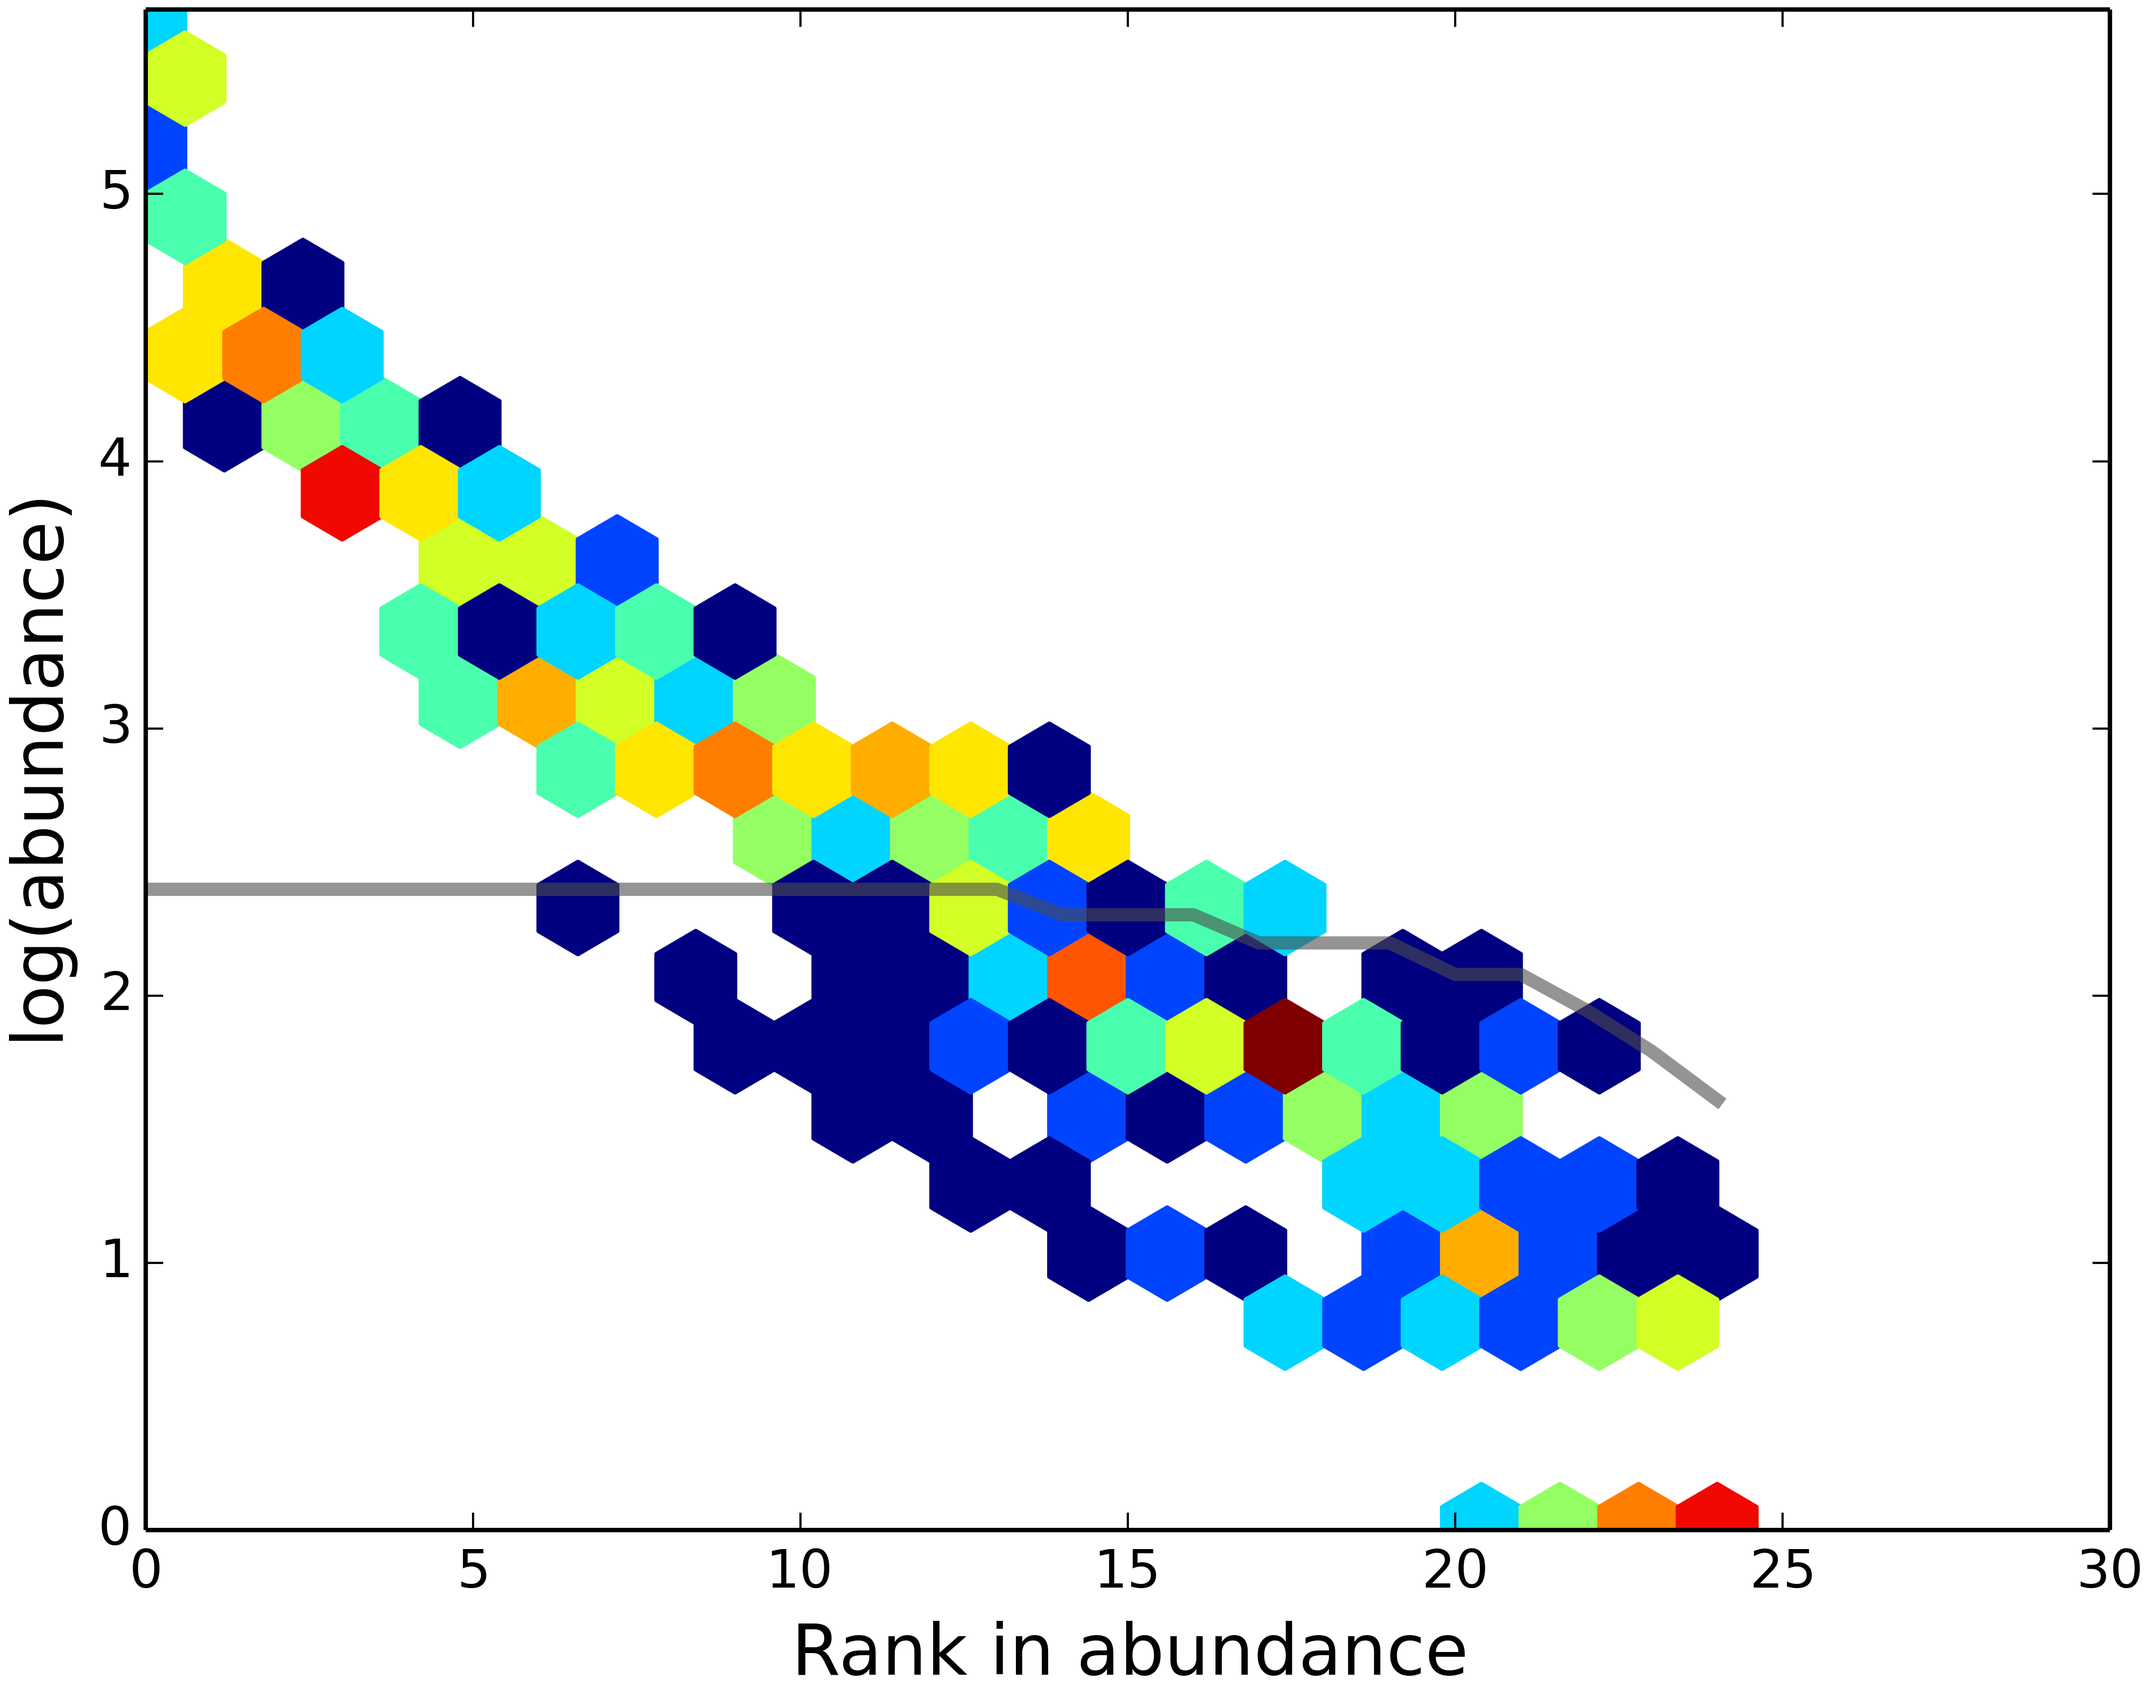
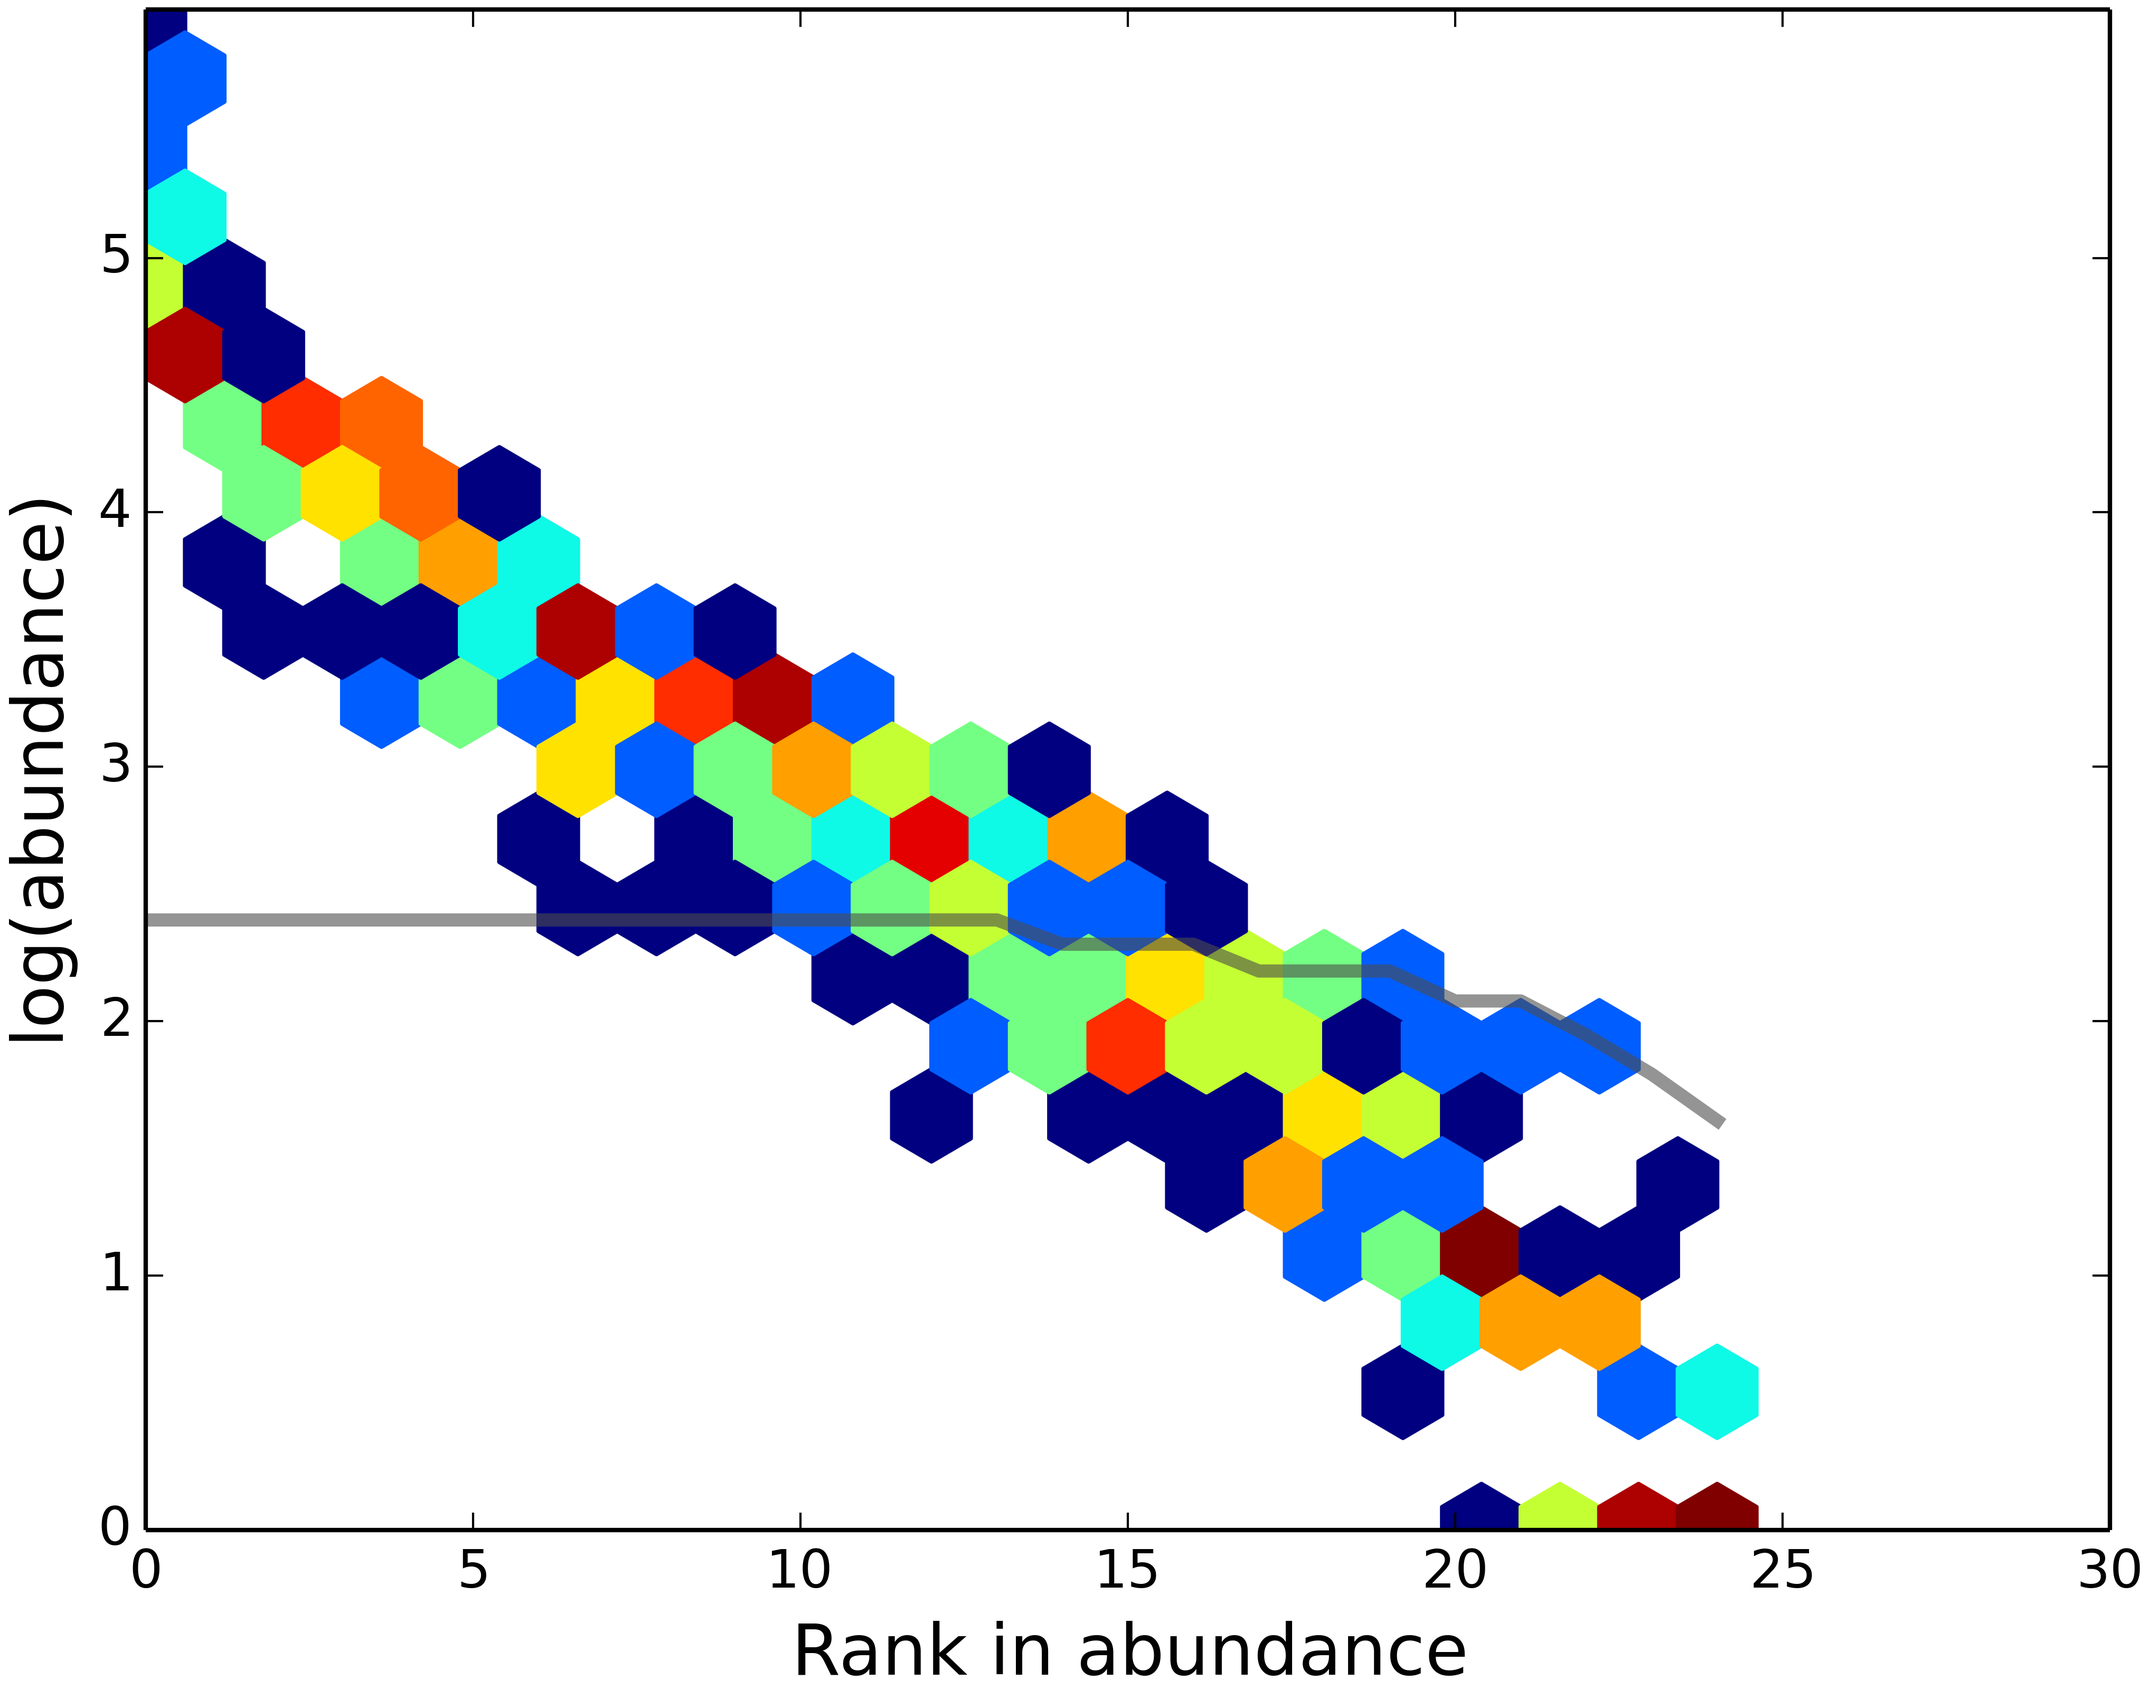
Added code for my IRB Project

Changed region(s): [[0.0312, 0.0, 0.8425, 0.9012], [0.0312, 0.5904, 0.0624, 0.6215], [0.0312, 0.4351, 0.0624, 0.4661]]

diff --git a/Models/IRB_Project_Code.py b/Models/IRB_Project_Code.py
@@ -3,13 +3,8 @@ from random import randrange
 import matplotlib.pyplot as plt
 import sys
 
-sys.path.append('/Users/Nathan_Hillis/SADModels/tools/')
-import HeatMap
-import pln 
+sys.path.append('/Users/Nathan_Hillis/')
 
-sys.path.append('/Users/Nathan_Hillis/SADModels/Analysis/')
-
-from AverageShape import PlotAvgShape
 
 
 """Plotting SimLogNorm and MLEs"""
@@ -44,27 +39,24 @@ def SimLogNorm(N, S, sample_size):
             print len(sample)
             
     return sample
-    
-    
-def get_MLEs(RAC):
-    '''Still not making this work at the moment.  MLE seems to be messing up'''
-    varlst = [1, 2, 3]#I have been decreasing the number in this list. I think that having more numbers
-    #is causing something to happen.  Not sure what, but it seems like that the more times that we
-    # require the variances to be equal the less log normal the MLE becomes.
-    
-    while np.var(varlst, ddof = 1) > 0.01: # while the variance of varlst is greater than zero
-        RAC = pln.get_rad_from_obs(RAC, 'pln') #get RAC from pln
-        varlst.append(np.var(RAC, ddof =1)) # add the variance of the end RAC to the list
-        varlst.pop(0) # remove the first number in the varlst 
-        print np.var(varlst)
-    
-    print RAC    
-    return RAC
-    
-    
-N = 1000
-S = 20
-sample_size = 10
+   
+'''import csv
+ObsRAC = []
+with open('/Users/Nathan_Hillis/Desktop/IRB_Project/1_site_97.csv', 'r') as RAC:
+    reader = csv.reader(RAC, delimiter = ',' , quoting = csv.QUOTE_NONE)
+    for values in RAC:
+        ObsRAC.append(values)
+
+print ObsRAC
+sys.exit()'''
+
+ObsRAC = [1,1,1,1,1,1,1,1,1,1,1,1,1,2,2,2,2,2,3,3,3,3,4,4,4,5,5,5,6,6,8,10,10,10,12,13,15,16,16,23,25,25,25,25,30,30,34,35,37,40,41,51,52,60,96,100,111,120,142,152,155,156,1000,2300]
+ObsRAC.reverse()
+
+                  
+N = sum(ObsRAC)
+S = len(ObsRAC)
+sample_size = 50
 
 SLN = SimLogNorm(N, S, sample_size)
 
@@ -76,10 +68,10 @@ for RAC in SLN: #Placing SLN RAC values into lists
     y.extend(np.log(RAC))
     x.extend(range(len(RAC)))
     
-MLE = get_MLEs(RAC) #Finding MLEs valus
 
 
-plt.plot(np.log(MLE), color='0.3', lw=3, alpha = 0.6)
+
+plt.plot(np.log(ObsRAC), color='0.3', lw=3, alpha = 0.6)
 
 plt.hexbin(x, y, mincnt=1, gridsize = 20, bins = 'log', cmap=plt.cm.jet) #Generating Heat Map for SLN RAC
     
@@ -87,5 +79,5 @@ plt.xlim(0, S + 5)
 plt.xlabel('Rank in abundance', fontsize=16)
 plt.ylabel('log(abundance)', fontsize=16)
 
-plt.savefig('/Users/Nathan_Hillis/SADModels/figures/Debug_Figs/Ploting_MLE_RACs/logNormal_MLEs_RACs_N='+str(N)+'_S='+str(S)+'.png', dpi=600, bbox_inches = 'tight', pad_inches=0.03)
+plt.savefig('/Users/Nathan_Hillis/Desktop/IRB_Project/Three_Site_N='+str(N)+'_S='+str(S)+'.png', dpi=600, bbox_inches = 'tight', pad_inches=0.03)
 plt.show()
